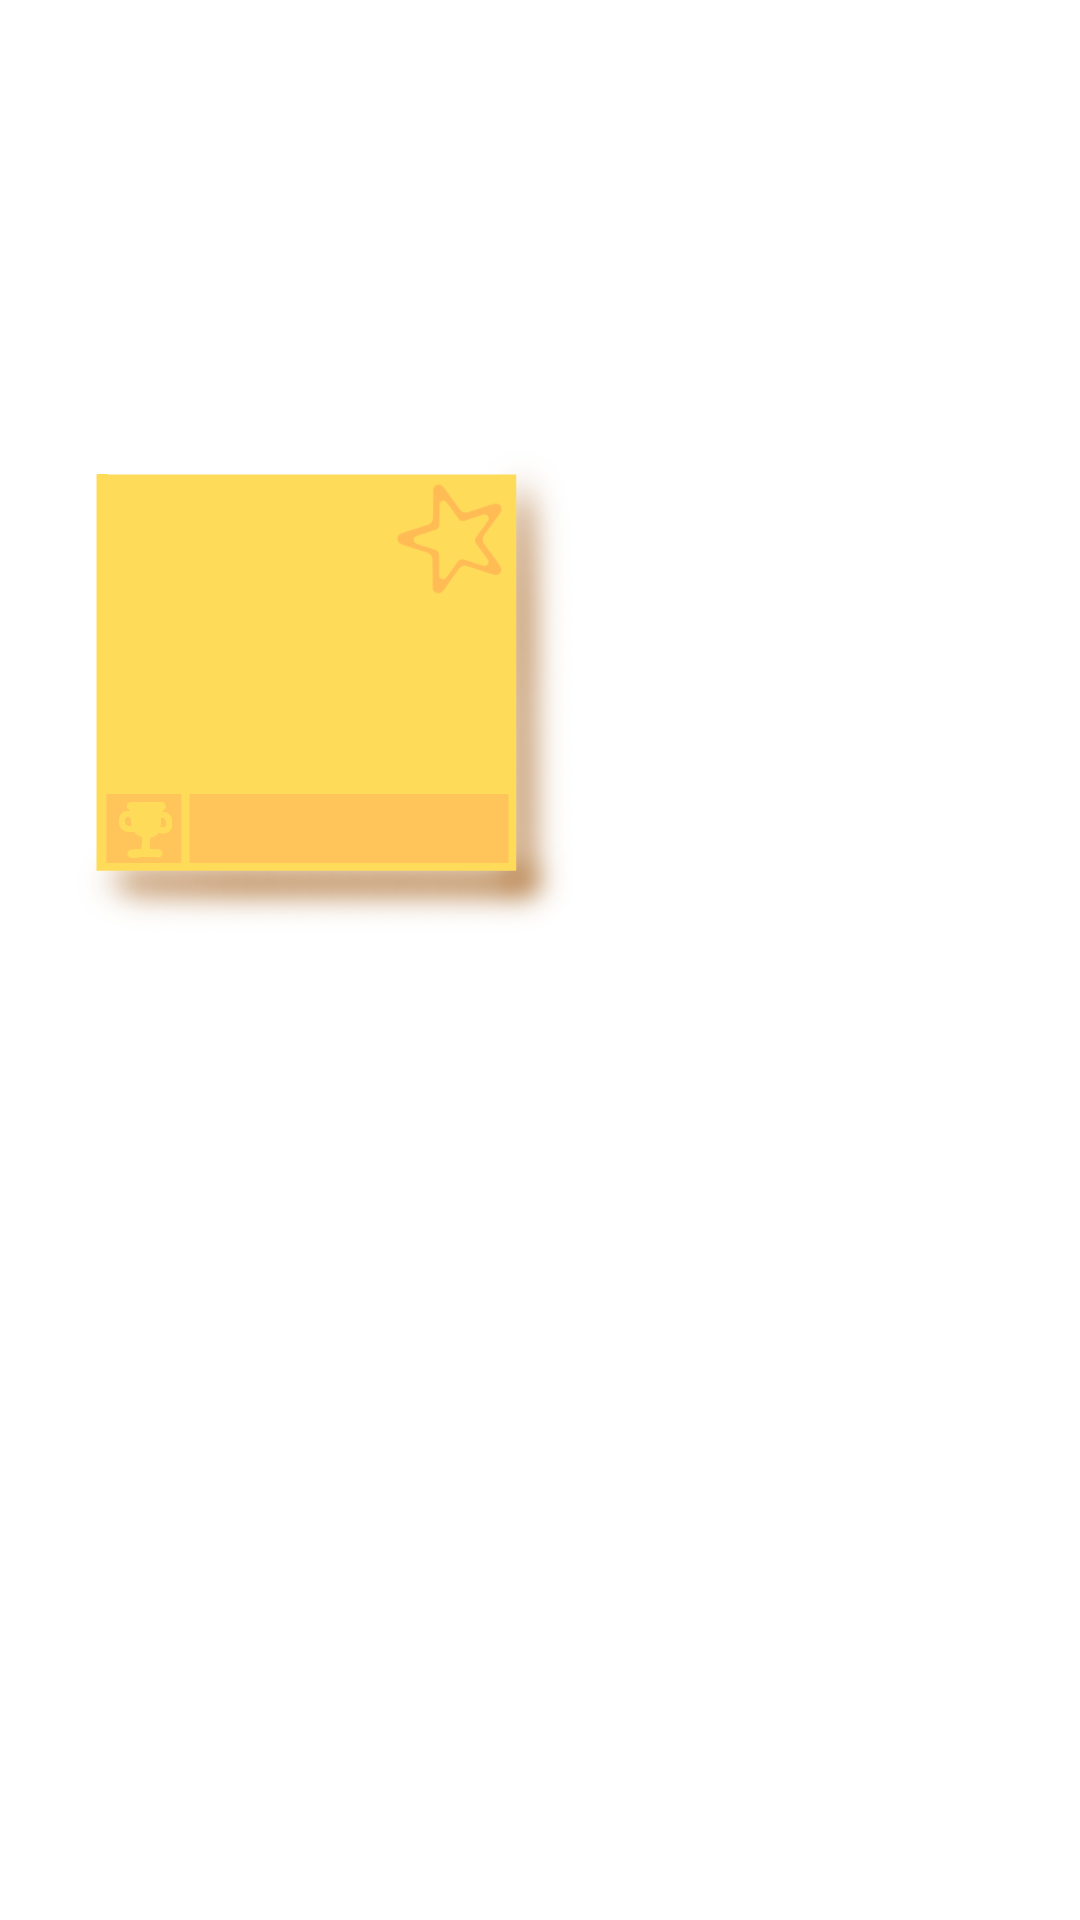
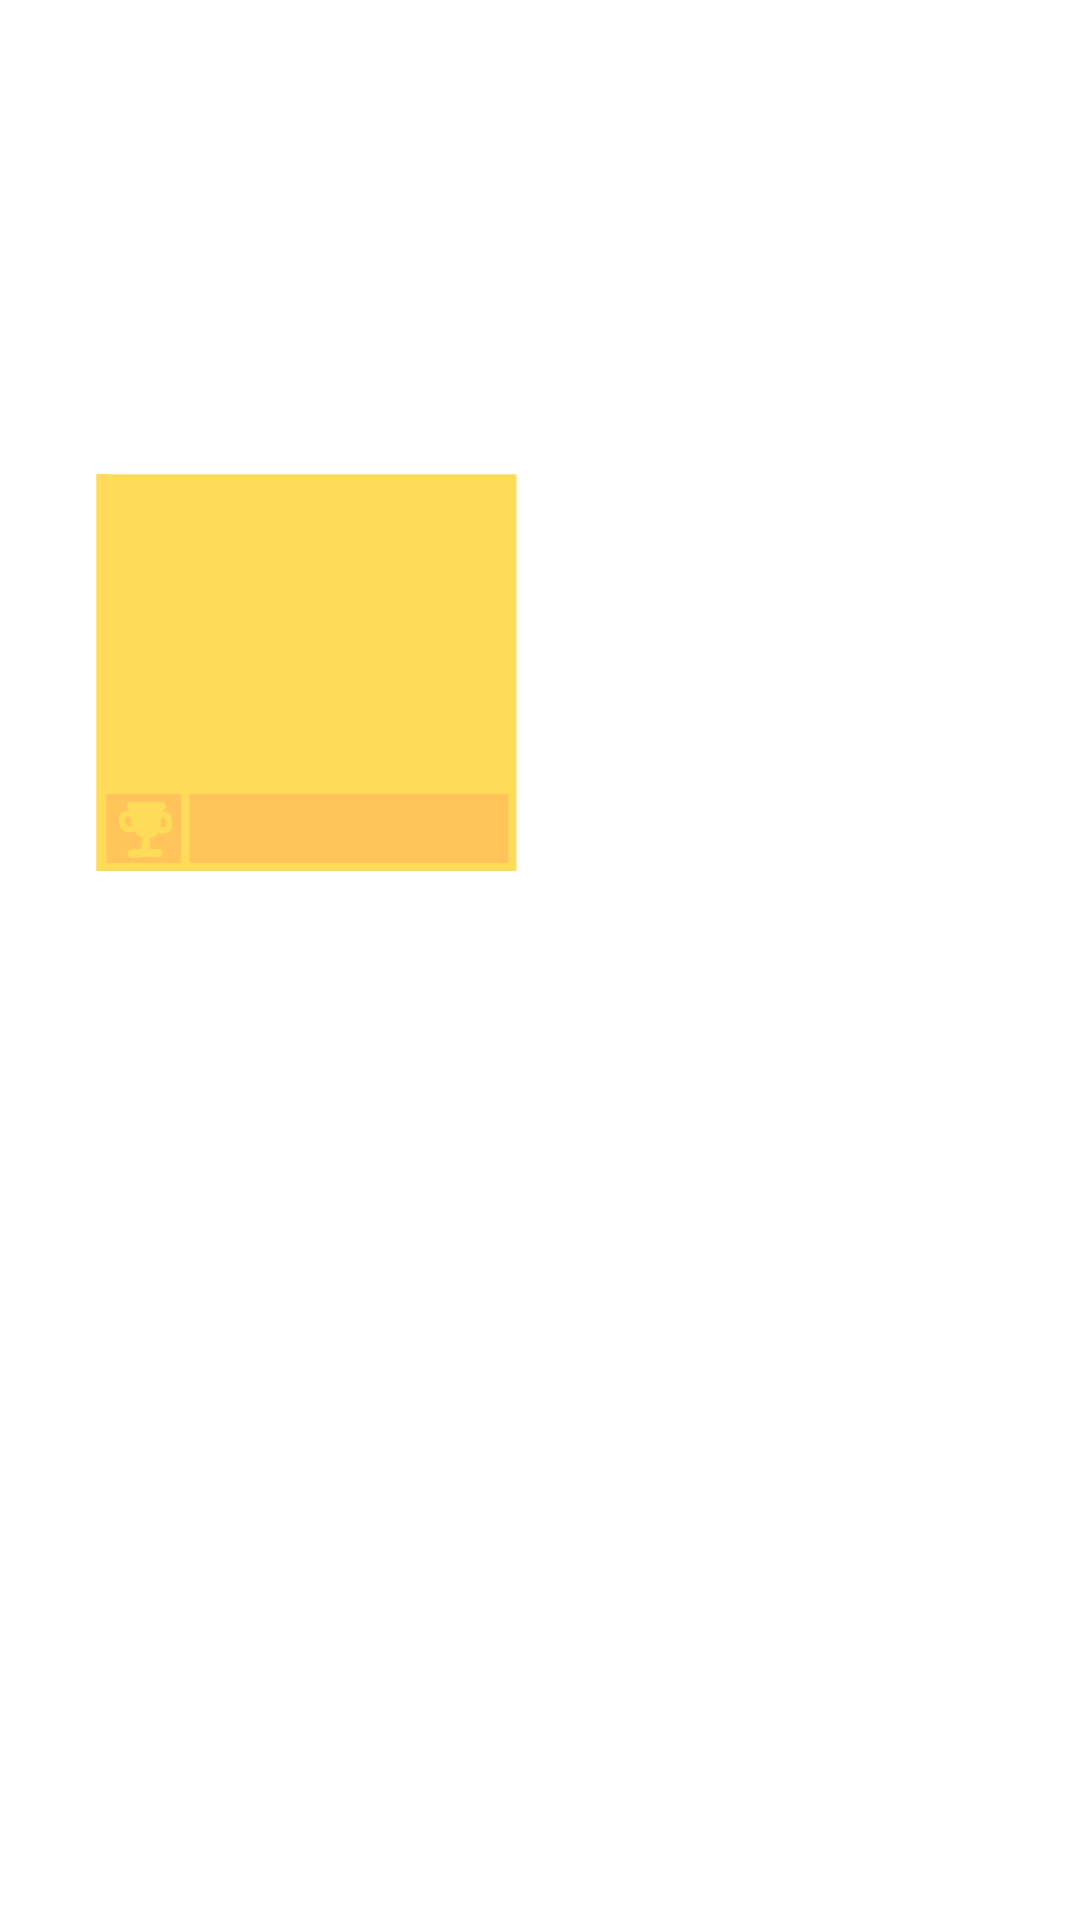
feat(challenge): replaced note art and added manual shadow

Changed region(s): [[0.0917, 0.25, 0.5194, 0.5]]

diff --git a/lib/features/challenge/presentation/widgets/challenge_card.dart b/lib/features/challenge/presentation/widgets/challenge_card.dart
@@ -26,9 +26,12 @@ class ChallengeCard extends StatelessWidget {
     this.statusLabel,
   });
 
-  static const double aspectRatio = _artWidth / _artHeight;
-  static const double _artWidth = 498;
-  static const double _artHeight = 483;
+  static const double aspectRatio = _cellWidth / _cellHeight;
+  static const double _cellWidth = 498;
+  static const double _cellHeight = 483;
+  static const double _artWidth = 421;
+  static const double _artHeight = 397;
+  static const double _noteScale = 1.0;
 
   String get _asset {
     switch (type) {
@@ -53,78 +56,80 @@ class ChallengeCard extends StatelessWidget {
       aspectRatio: aspectRatio,
       child: LayoutBuilder(
         builder: (context, constraints) {
-          final s = constraints.maxWidth / _artWidth;
+          final s = _noteScale * constraints.maxWidth / _cellWidth;
           TextStyle hand(double size) => handDrawn.hand(size * s).copyWith(height: 1.1);
 
-          return Stack(
-            children: [
-              Positioned.fill(child: Image.asset(_asset, fit: BoxFit.fill)),
-              Positioned(
-                left: 52 * s,
-                top: 33 * s,
-                right: (_artWidth - 312) * s,
-                height: 113 * s,
-                child: Align(
-                  alignment: Alignment.centerLeft,
-                  child: Text(
-                    title,
-                    maxLines: 1,
-                    overflow: TextOverflow.ellipsis,
-                    style: handDrawn.hand(58 * s),
-                  ),
-                ),
+          return Center(
+            child: Container(
+              width: _artWidth * s,
+              height: _artHeight * s,
+              decoration: BoxDecoration(
+                boxShadow: [BoxShadow(color: handDrawn.shadow, blurRadius: 25 * s, offset: Offset(25 * s, 30 * s))],
               ),
-              Positioned(
-                left: 52 * s,
-                top: 158 * s,
-                right: (_artWidth - 425) * s,
-                bottom: (_artHeight - 336) * s,
-                child: Column(
-                  crossAxisAlignment: CrossAxisAlignment.start,
-                  children: [
-                    Expanded(
-                      child: LayoutBuilder(
-                        builder: (context, box) => Text(
-                          description,
-                          maxLines: math.max(1, (box.maxHeight / (40 * s * 1.1)).floor()),
-                          overflow: TextOverflow.ellipsis,
-                          style: hand(40),
-                        ),
-                      ),
+              child: Stack(
+                children: [
+                  Positioned.fill(child: Image.asset(_asset, fit: BoxFit.fill)),
+                  Positioned(
+                    left: 32 * s,
+                    top: 9 * s,
+                    right: (_artWidth - 292) * s,
+                    height: 113 * s,
+                    child: Align(
+                      alignment: Alignment.centerLeft,
+                      child: Text(title, maxLines: 1, overflow: TextOverflow.ellipsis, style: handDrawn.hand(58 * s)),
                     ),
-                    if (footer.isNotEmpty)
-                      Text(footer, maxLines: 1, overflow: TextOverflow.ellipsis, style: hand(34)),
-                  ],
-                ),
+                  ),
+                  Positioned(
+                    left: 32 * s,
+                    top: 134 * s,
+                    right: (_artWidth - 405) * s,
+                    bottom: (_artHeight - 312) * s,
+                    child: Column(
+                      crossAxisAlignment: CrossAxisAlignment.start,
+                      children: [
+                        Expanded(
+                          child: LayoutBuilder(
+                            builder: (context, box) => Text(
+                              description,
+                              maxLines: math.max(1, (box.maxHeight / (40 * s * 1.1)).floor()),
+                              overflow: TextOverflow.ellipsis,
+                              style: hand(40),
+                            ),
+                          ),
+                        ),
+                        if (footer.isNotEmpty)
+                          Text(footer, maxLines: 1, overflow: TextOverflow.ellipsis, style: hand(34)),
+                      ],
+                    ),
+                  ),
+                  Positioned(
+                    left: 320 * s,
+                    top: 38 * s,
+                    width: 66 * s,
+                    height: 58 * s,
+                    child: FittedBox(
+                      child: Text('$points', style: hand(40).copyWith(fontWeight: FontWeight.bold)),
+                    ),
+                  ),
+                  Positioned(
+                    left: 105 * s,
+                    top: 320 * s,
+                    right: (_artWidth - 405) * s,
+                    height: 72 * s,
+                    child: Align(
+                      alignment: Alignment.centerLeft,
+                      child: Text(creatorName, maxLines: 1, overflow: TextOverflow.ellipsis, style: hand(44)),
+                    ),
+                  ),
+                  Positioned.fill(
+                    child: Material(
+                      type: MaterialType.transparency,
+                      child: InkWell(onTap: onTap),
+                    ),
+                  ),
+                ],
               ),
-              Positioned(
-                left: 340 * s,
-                top: 62 * s,
-                width: 66 * s,
-                height: 58 * s,
-                child: FittedBox(child: Text('$points', style: hand(40).copyWith(fontWeight: FontWeight.bold))),
-              ),
-              Positioned(
-                left: 125 * s,
-                top: 344 * s,
-                right: (_artWidth - 425) * s,
-                height: 72 * s,
-                child: Align(
-                  alignment: Alignment.centerLeft,
-                  child: Text(creatorName, maxLines: 1, overflow: TextOverflow.ellipsis, style: hand(44)),
-                ),
-              ),
-              Positioned(
-                left: 20 * s,
-                top: 24 * s,
-                right: (_artWidth - 439) * s,
-                bottom: (_artHeight - 421) * s,
-                child: Material(
-                  type: MaterialType.transparency,
-                  child: InkWell(onTap: onTap),
-                ),
-              ),
-            ],
+            ),
           );
         },
       ),
